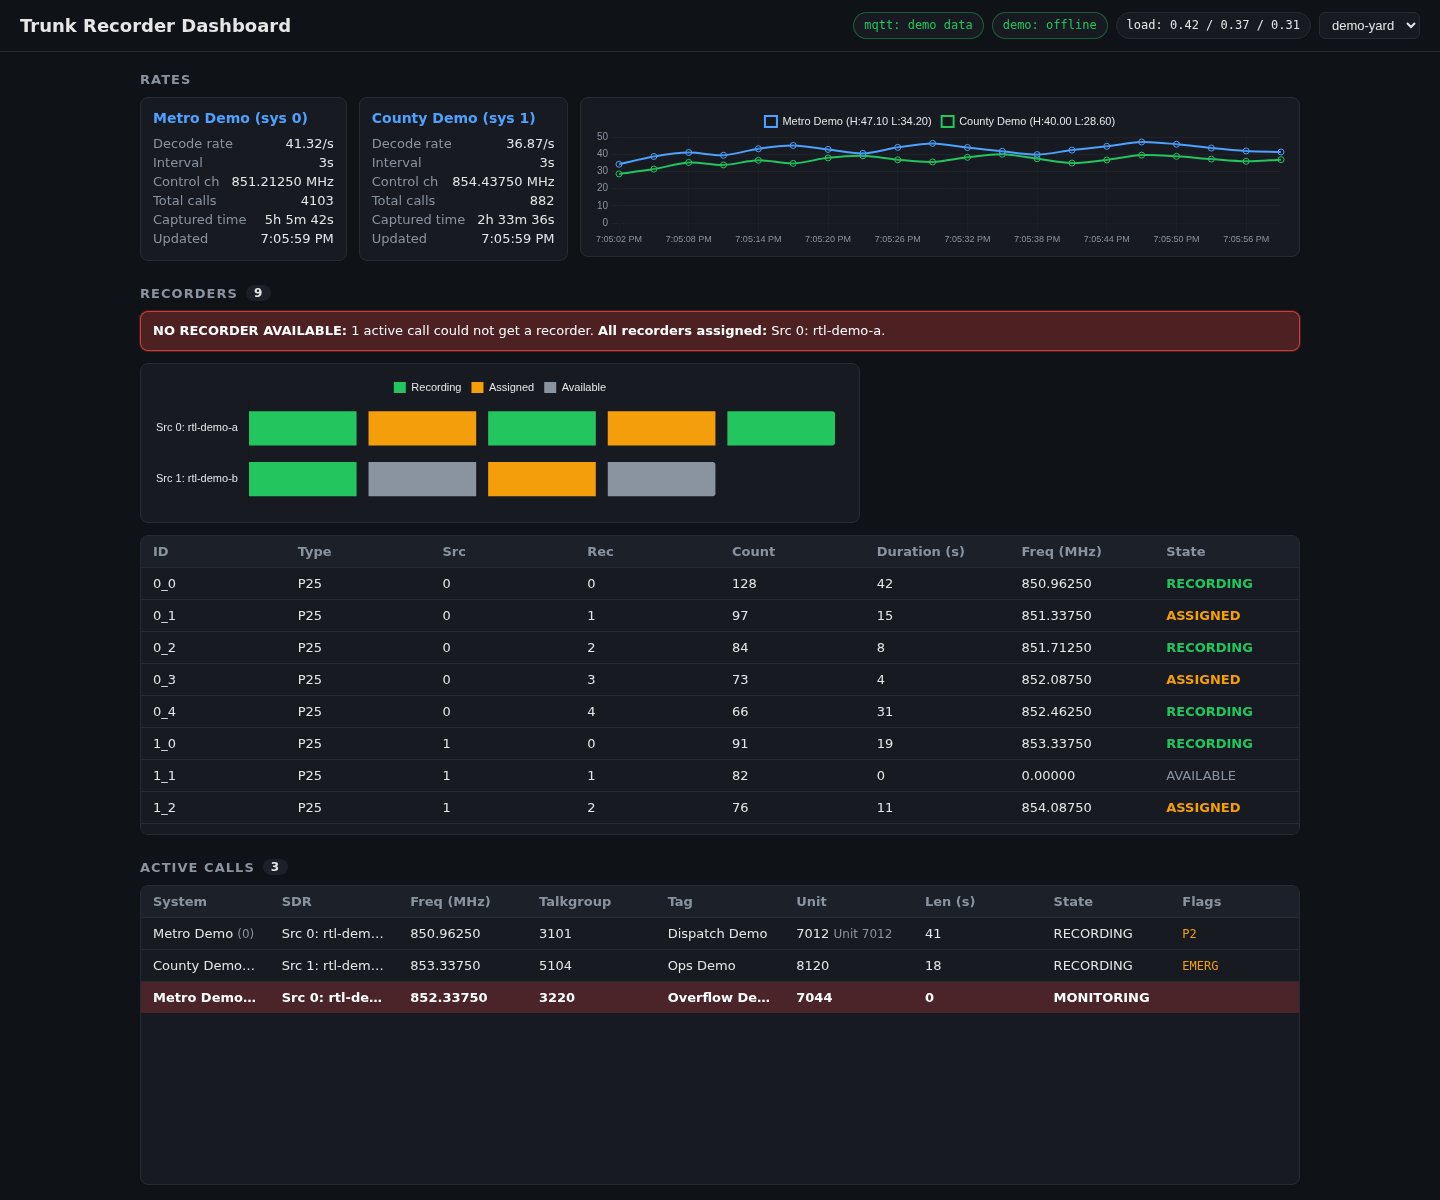
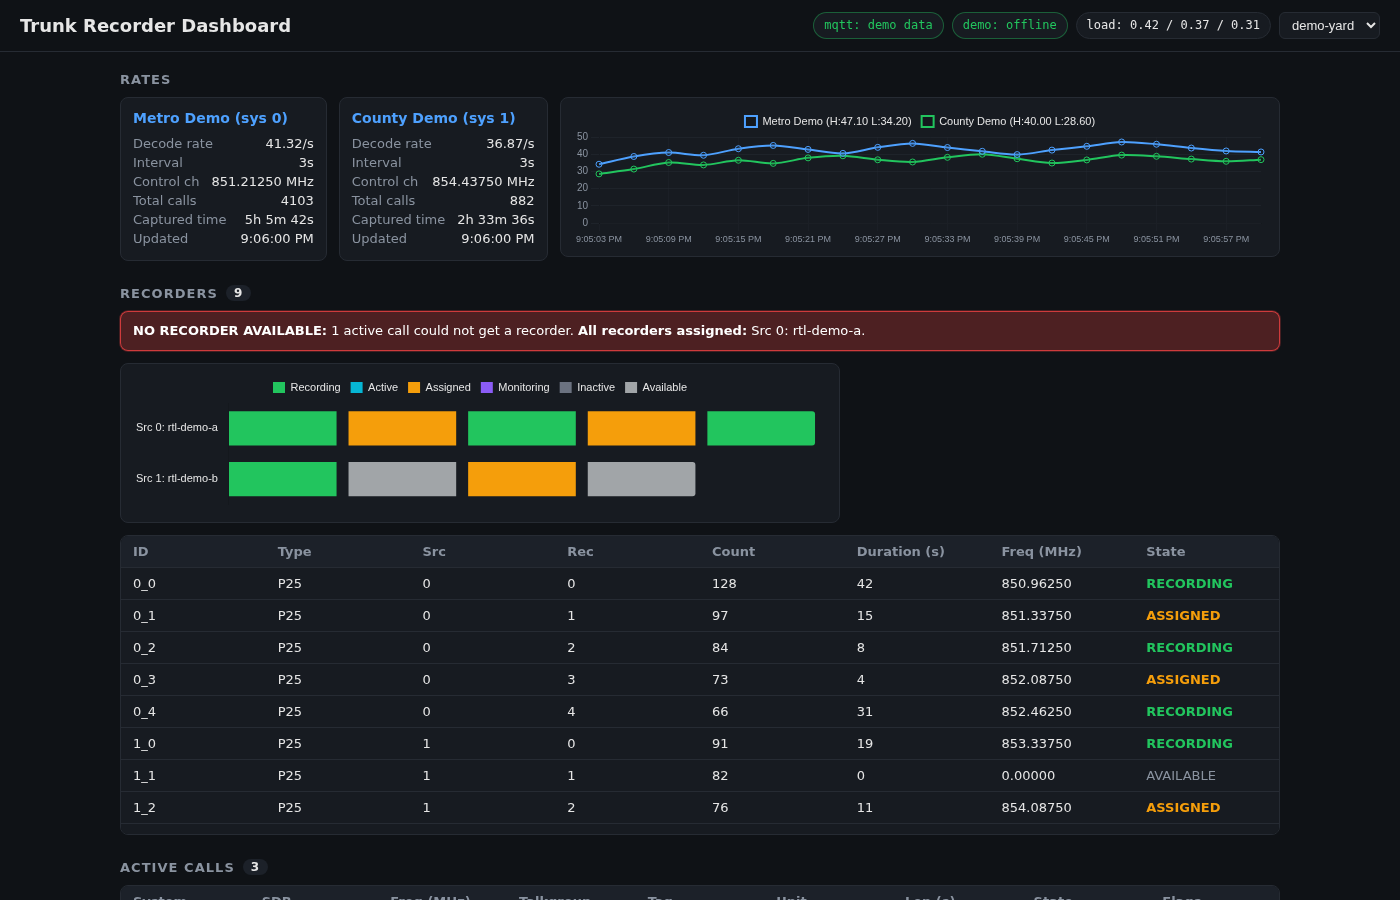
docs: update dashboard screenshot with demo mode

diff --git a/screenshot.js b/screenshot.js
@@ -1,0 +1,12 @@
+import puppeteer from 'puppeteer';
+
+(async () => {
+  const browser = await puppeteer.launch();
+  const page = await browser.newPage();
+  await page.setViewport({ width: 1400, height: 900 });
+  await page.goto('http://localhost:3080/demo', { waitUntil: 'networkidle2', timeout: 60000 });
+  await new Promise(r => setTimeout(r, 2000));
+  await page.screenshot({ path: './docs/images/dashboard-demo.png' });
+  await browser.close();
+  console.log('Screenshot saved!');
+})();
